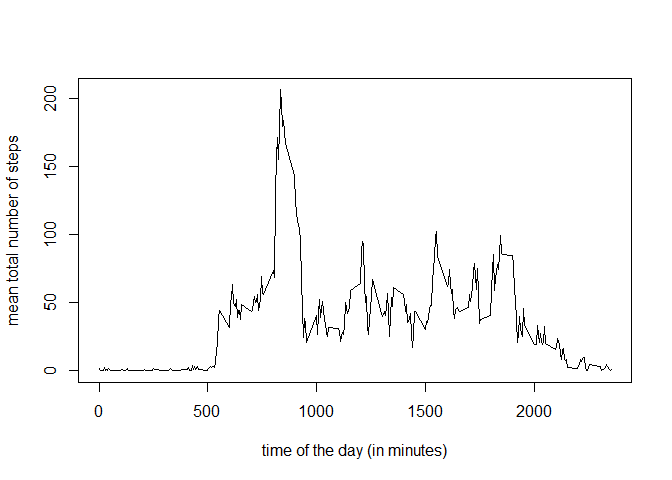
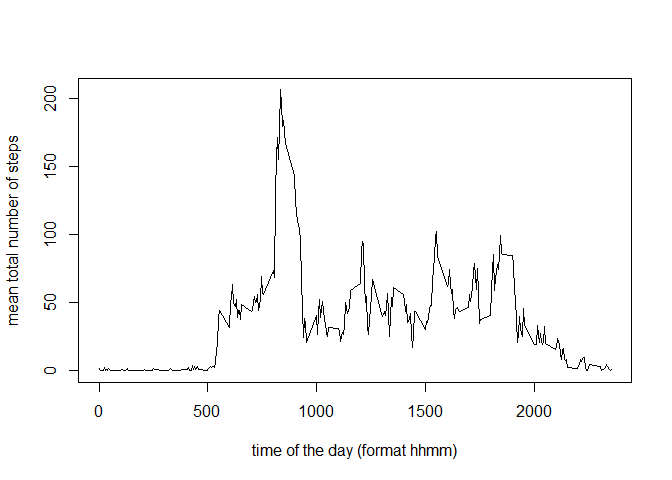
final version (fixed xlabel for one of the plots)

Changed region(s): [[0.375, 0.9062, 0.6875, 0.9688]]

diff --git a/P1_template.html b/P1_template.html
@@ -206,8 +206,8 @@ hist(StepsPerDay, xlab=&quot;total steps per day&quot;,main=&quot;&quot;, ylim=c
 <p>To study the daily activity pattern, we make a time series plot of the 5-minute interval (x-axis) and the average number of steps taken, averaged across all days (y-axis)</p>
 <pre class="r"><code>StepsPerInterval &lt;- aggregate(list(mean=data[,1]),list(interval=data$interval),mean,na.rm=TRUE)
 
-plot(StepsPerInterval, type=&quot;l&quot;,ylab=&quot;mean total number of steps&quot;,xlab=&quot;time of the day (in minutes)&quot;)</code></pre>
[1 lines of base64/hex data omitted]
+plot(StepsPerInterval, type=&quot;l&quot;,ylab=&quot;mean total number of steps&quot;,xlab=&quot;time of the day (format hhmm)&quot;)</code></pre>
[1 lines of base64/hex data omitted]
 <p>Next we determine which interval has the heighest mean number of steps, i.e. which is the most active time of the day. To this end, we order our data by the mean.</p>
 <pre class="r"><code>library(dplyr)
 

diff --git a/P1_template.md b/P1_template.md
@@ -88,7 +88,7 @@ To study the daily activity pattern, we make a time series plot of the 5-minute 
 ```r
 StepsPerInterval <- aggregate(list(mean=data[,1]),list(interval=data$interval),mean,na.rm=TRUE)
 
-plot(StepsPerInterval, type="l",ylab="mean total number of steps",xlab="time of the day (in minutes)")
+plot(StepsPerInterval, type="l",ylab="mean total number of steps",xlab="time of the day (format hhmm)")
 ```
 
 ![](P1_template_files/figure-html/unnamed-chunk-5-1.png)<!-- -->
